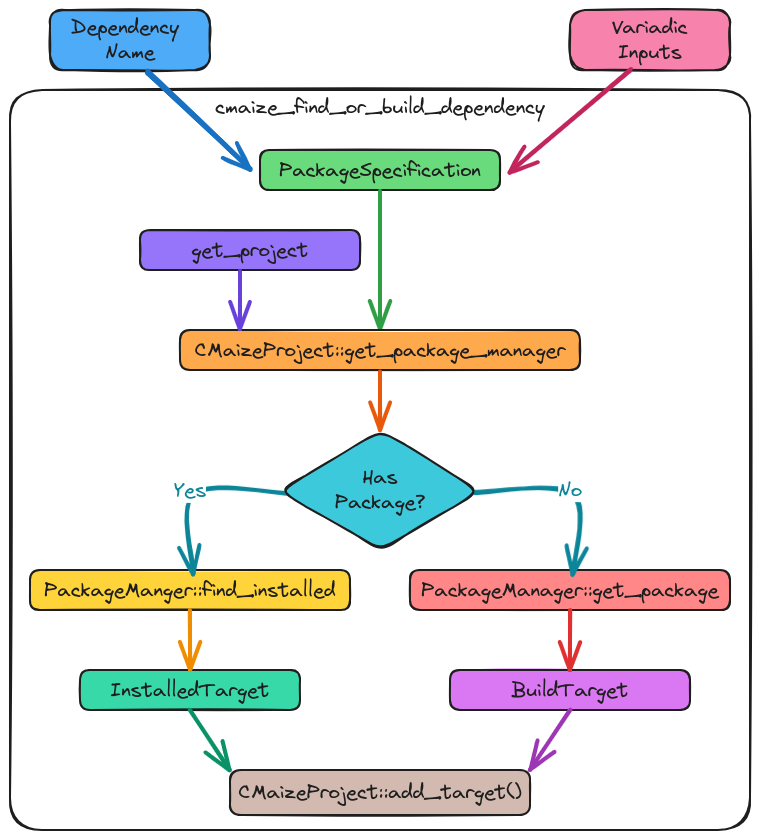
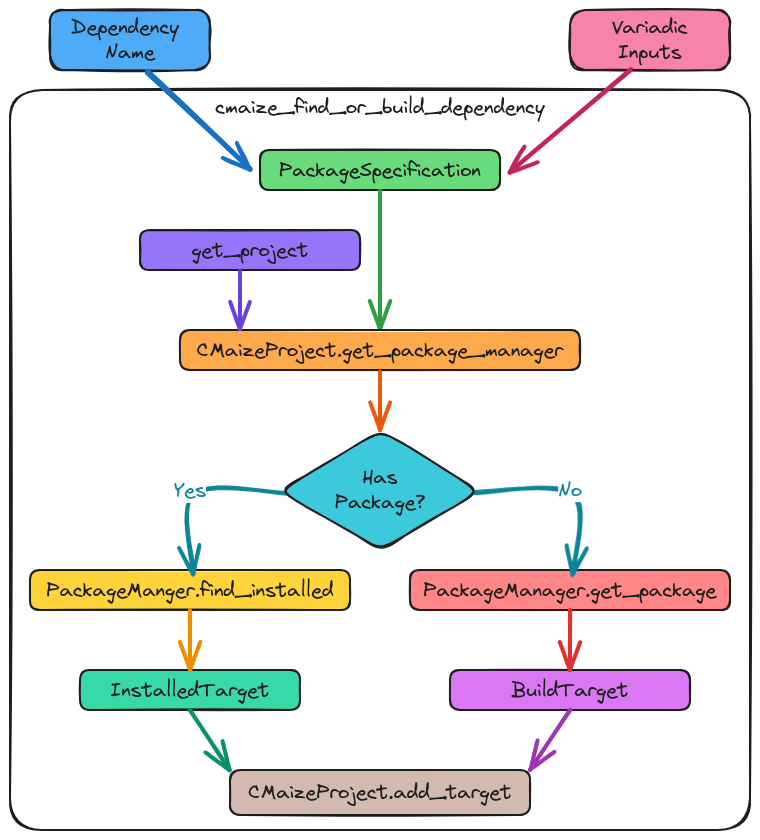
fix figure, clarify language

diff --git a/docs/src/developer/design/user_api/find_dependencies.rst b/docs/src/developer/design/user_api/find_dependencies.rst
@@ -135,30 +135,16 @@ basic API will be:
    cmaize_find_or_build_dependency(name_of_dependency <kwargs>)
 
 
-Here ``name_of_dependency`` will be the name assigned to the CMake target, as
-required by the :ref:`fbd_cmake_target` consideration. N.B., "CMake target" in
-this context refers to a traditional CMake target, NOT a CMaize object. In turn,
-the user can customize the target via traditional CMake target commands if they
-so choose; for example:
+Here ``name_of_dependency`` will be the base name assigned to the CMake target,
+as required by the :ref:`fbd_cmake_target` consideration. N.B., "CMake target"
+in this context refers to a traditional CMake target, NOT a CMaize object.
+Users should continue to refer to the dependency as ``name_of_dependency`` in
+all future CMaize calls, e.g.:
 
 .. code-block:: CMake
 
-   # Somehow get the libraries the target needs to link to
-   set(link_libraries "...")
-   target_link_libraries(name_of_dependency PUBLIC ${link_libraries})
-
-As stated in the :ref:`fbd_cmake_target` consideration, users should use the
-provided name in all future CMaize interactions as well. For example, if one
-of the project's libraries depends on ``name_of_dependency`` then this specified
-like:
-
-.. code-block:: CMake
-
-   cmaize_add_library(
-      <library_name>
-      DEPENDS name_of_dependency <other_dependencies_if_applicable>
-      <other_options>
-   )
+   cmaize_find_or_build_dependency(foo <kwargs>)
+   cmaize_find_or_build_dependency(bar DEPENDS foo <other_kwargs>)
 
 *******
 Summary
